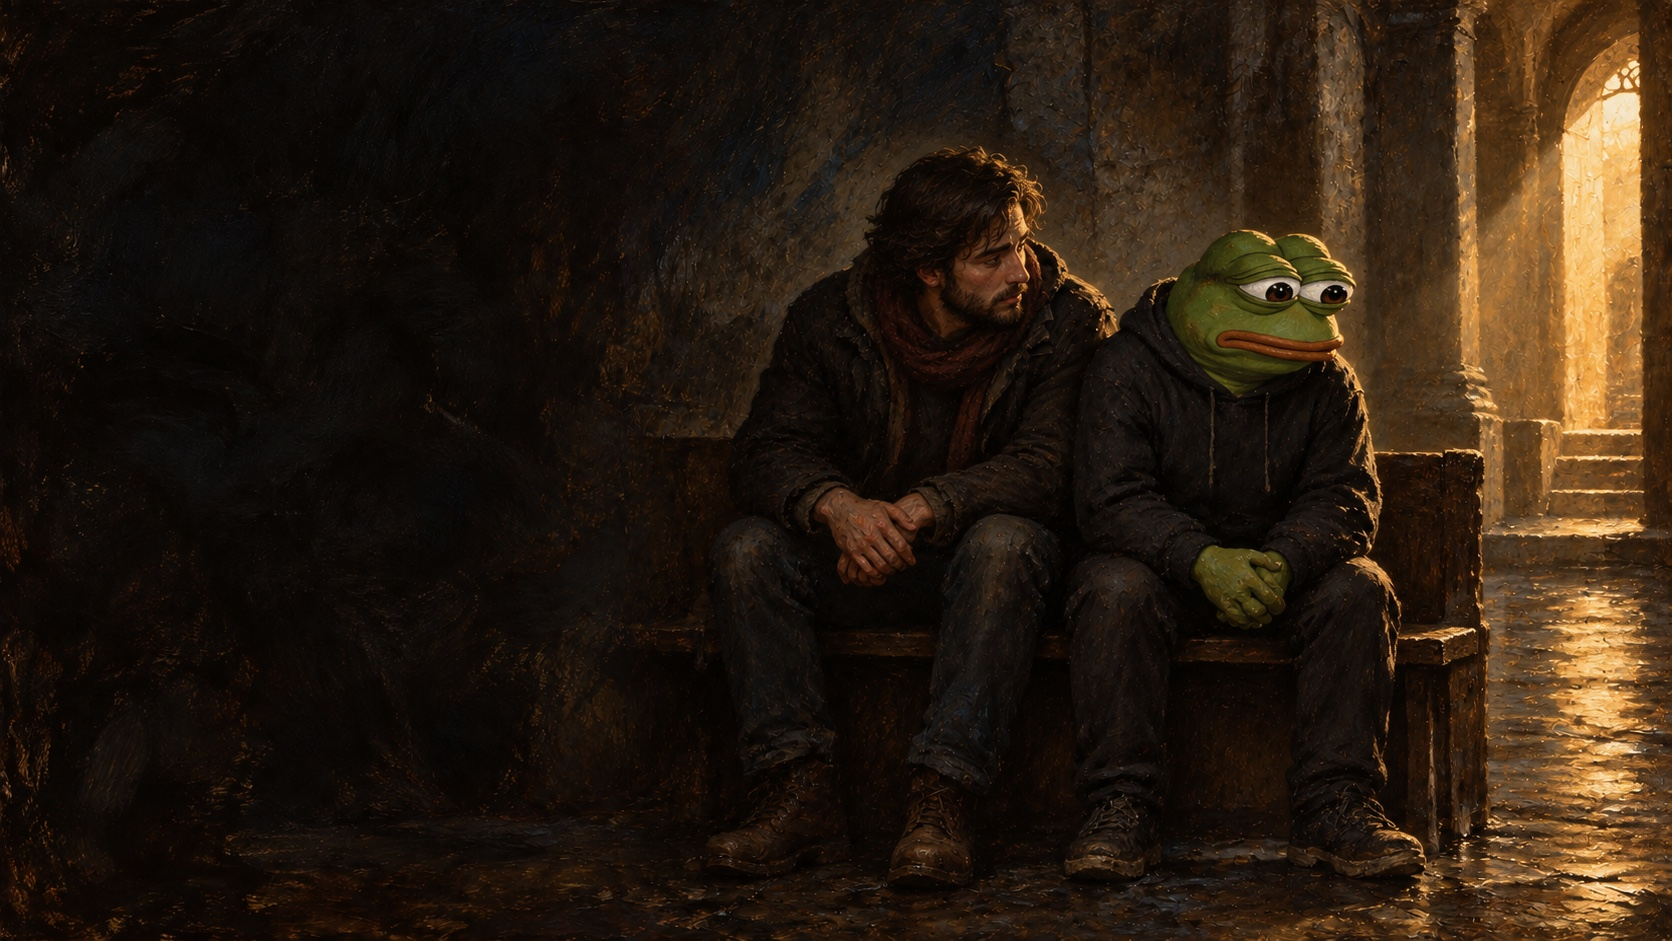
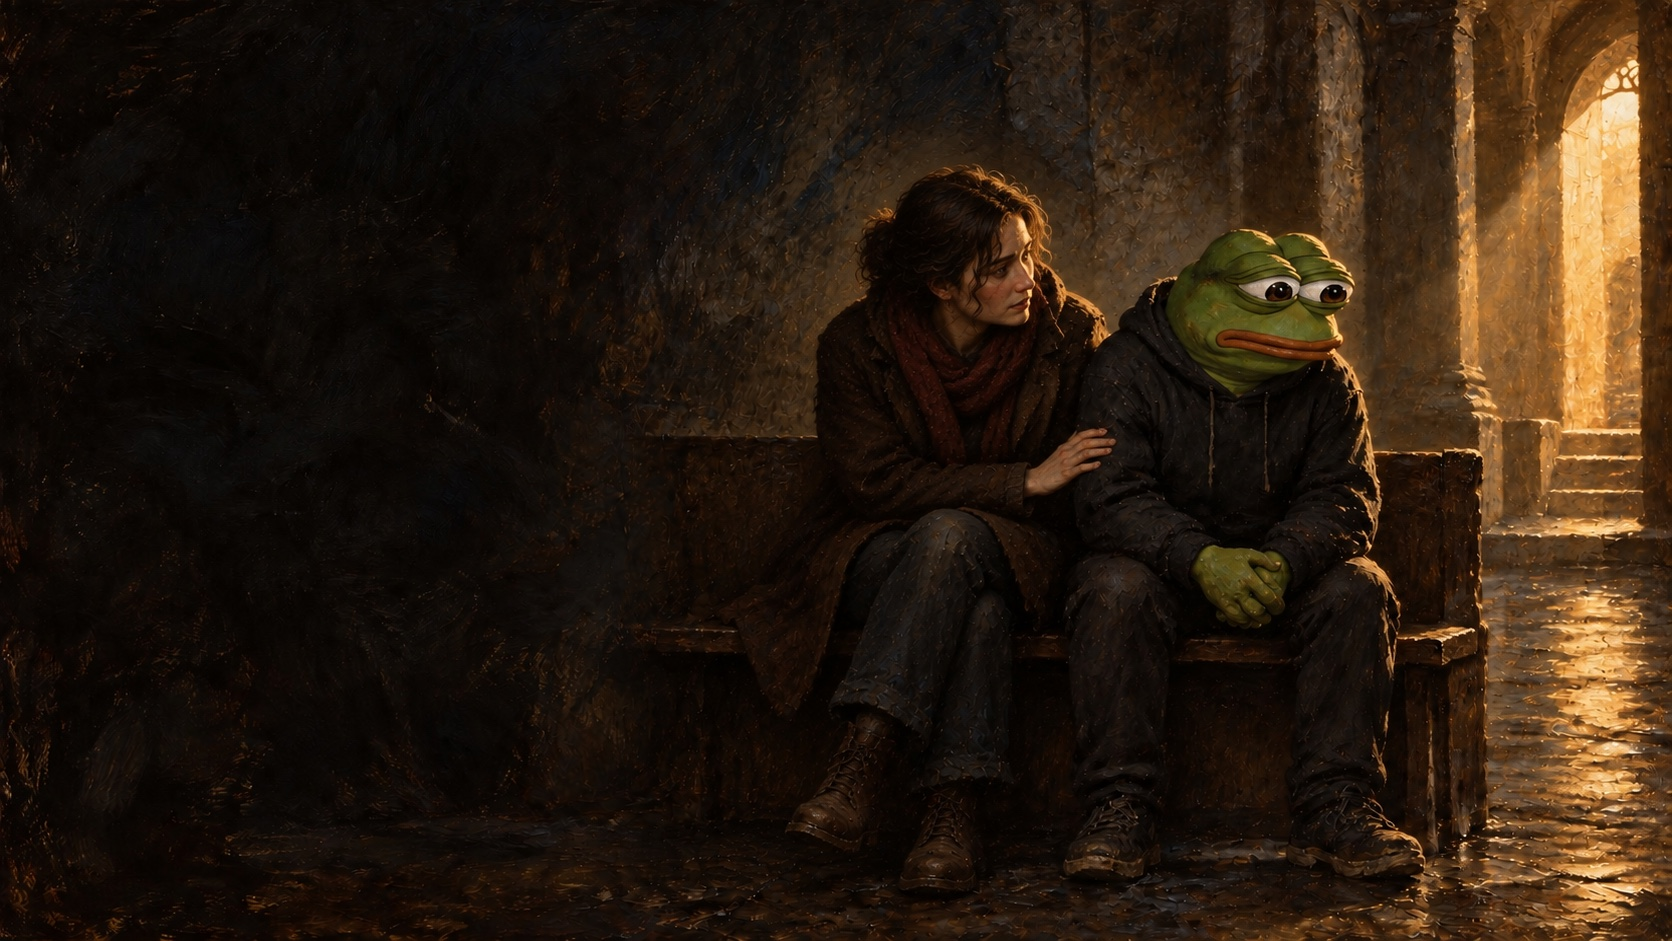
Show Pepe with patient female friend on slide 14

diff --git a/00/remaster.js b/00/remaster.js
@@ -12,7 +12,7 @@ window.CORAZON_REMASTER = [
   {chapter:'La interpretación cambia',title:'CÓMO TORCIÓ <em>EL EVANGELIO</em>',subtitle:'La Escritura dejó de hablarme de Cristo y empezó a hablarme de mi poder.',style:'small-title',notes:'Contrastar el sentido cristiano con una lectura que convierte los personajes bíblicos en estados de conciencia.'},
   {chapter:'La búsqueda se estrecha',title:'LOS CÍRCULOS <em>OSCUROS</em>',notes:'Contar la experiencia sin sugerir que cada práctica o persona mencionada comparte el mismo origen o efecto.'},
   {chapter:'Discernimiento',title:'EL CATÁLOGO <em>DEL ENGAÑO</em>',subtitle:'No toda promesa de poder espiritual conduce a la verdad.',list:['Adivinación','Manifestación','Energías','Rituales','Entidades','Esoterismo'],style:'small-title small-copy',notes:'Discernir prácticas concretas sin acusar indiscriminadamente a toda terapia, meditación o filosofía.'},
-  {chapter:'Una presencia fiel',title:'LA PACIENCIA <em>DE UN AMIGO</em>',subtitle:'Alguien permaneció cerca cuando yo no podía salir solo.',notes:'Contar la amistad real detrás de esta lámina.'},
+  {chapter:'Una presencia fiel',title:'LA PACIENCIA <em>DE UNA AMIGA</em>',subtitle:'Ella permaneció cerca cuando yo no podía salir solo.',notes:'Contar cómo me acompañó con paciencia. Entonces era mi amiga; hoy es mi novia.'},
   {chapter:'El quiebre',title:'EL FONDO <em>DEL POZO</em>',notes:'Pausa. Permitir que el peso de este momento se sienta.'},
   {chapter:'Eclesiastés 1,2',title:'ECLESIASTÉS',quote:'«Vanidad de vanidades, todo es vanidad».',attribution:'Eclesiastés 1,2',notes:'La frase dio nombre al vacío; no fue una solución instantánea.'},
   {chapter:'Confesiones I,1',title:'UN CORAZÓN <em>INQUIETO</em>',quote:'«Nos hiciste, Señor, para ti, y nuestro corazón está inquieto hasta que descanse en ti».',attribution:'San Agustín · Confesiones I,1',style:'small-title quote-heavy',notes:'Leer la frase de san Agustín. Es el eje del testimonio.'},

diff --git a/00/index.html b/00/index.html
@@ -59,7 +59,7 @@
   <script>
     const slides=window.CORAZON_REMASTER, $=id=>document.getElementById(id);
     let current=0;
-    const warmed=new Set(), imageUrl=n=>`assets/remaster-${String(n+1).padStart(2,'0')}.jpg`;
+    const warmed=new Set(), imageUrl=n=>`assets/remaster-${String(n+1).padStart(2,'0')}.jpg${n===13?'?v=2':''}`;
     function warm(n) { if(n<0||n>=slides.length||warmed.has(n)) return; const img=new Image(); img.src=imageUrl(n); warmed.add(n); }
     function show(index,replace=false) {
       current=Math.max(0,Math.min(slides.length-1,index));

diff --git a/00/BRIEF.md b/00/BRIEF.md
@@ -10,6 +10,7 @@ Remaster visual de la presentación autobiográfica «Corazón inquieto · Del O
 - Usar tipografía HTML mucho mayor y con contraste en una pantalla 16:9 de 42 pulgadas. Los detalles se trasladan al mapa oral o a notas ocultas; la única interfaz visible es una línea de progreso.
 - Evitar presentar como hecho una cadena histórica lineal entre el Edén, las distintas escuelas gnósticas, el hermetismo y la Nueva Era. La lámina 06 habla de **ecos y reapropiaciones**; la lectura teológica del testimonio se distingue de la historia documentada.
 - No publicar detalles íntimos adicionales del testimonio. `GUION.md` sigue siendo un mapa público abreviado; Rogelio conserva su guion extenso en el vault.
+- Actualización de la lámina 14 a petición de Rogelio: «La paciencia de una amiga». La imagen nueva muestra a Pepe con una mujer adulta; la nota oral aclara que entonces era su amiga y hoy es su novia. Es una precisión autobiográfica posterior, no una transcripción literal del meme o del guion original.
 
 ## Pregunta que queda
 

diff --git a/00/ARTE.md b/00/ARTE.md
@@ -23,7 +23,7 @@ Cada escena añadió al prompt común las indicaciones siguientes; se referencia
 | 11 | Pepe estudia una Biblia frente a un espejo que le devuelve una imagen engrandecida de sí mismo. |
 | 12 | Pepe ante la computadora a altas horas de la noche, encerrado en un círculo de pantallas. |
 | 13 | Pepe recorre un gabinete de prácticas esotéricas representadas por objetos concretos. |
-| 14 | Un amigo permanece sentado junto a Pepe, en silencio, cerca de una puerta iluminada. |
+| 14 | Una amiga adulta permanece sentada junto a Pepe, en silencio, cerca de una puerta iluminada. La escena anterior tenía un hombre; se editó para reflejar la historia que Rogelio quiere contar. |
 | 15 | Pepe en el fondo de un pozo de piedra, con un pequeño círculo de luz distante. |
 | 16 | Pepe observa los objetos agotados de su búsqueda y un antiguo rollo bíblico. |
 | 17 | San Agustín en su estudio norteafricano tardorromano; Pepe aparece distante al otro lado de un arco. |

diff --git a/00/GUION.md b/00/GUION.md
@@ -17,7 +17,7 @@ Esta edición conserva el arco de las 30 láminas del PowerPoint original, con l
 | 11 | CÓMO TORCIÓ EL EVANGELIO · lectura teológica del testimonio |
 | 12 | LOS CÍRCULOS OSCUROS |
 | 13 | EL CATÁLOGO DEL ENGAÑO · discernir promesas de poder espiritual |
-| 14 | LA PACIENCIA DE UN AMIGO |
+| 14 | LA PACIENCIA DE UNA AMIGA · Pepe y la amiga que lo acompañó; hoy es su novia |
 | 15 | EL FONDO DEL POZO |
 | 16 | ECLESIASTÉS · «Vanidad de vanidades, todo es vanidad» |
 | 17 | «Nos hiciste, Señor, para ti, y nuestro corazón está inquieto hasta que descanse en ti» |
